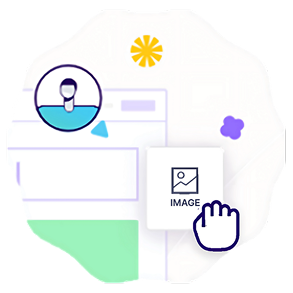
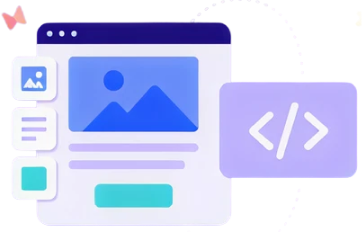
Remove MobileAppCard component and associated references from user dashboard and shimmer components; update campaign image.

diff --git a/src/client/pages/home/user-dashboard/index.tsx b/src/client/pages/home/user-dashboard/index.tsx
@@ -42,7 +42,6 @@ import { RecentAutomationsTable } from './recent-automations';
 import { QuickLinks } from './quick-links';
 import { RecentCampaignsTable } from './RecentCampaignsTable';
 import { UserDashboardShimmer } from './UserDashboardShimmer';
-import { MobileAppCard } from './mobile-app-card';
 import { useContactAnalytics } from '../use-analytics';
 // import { applyFilters } from '@wordpress/hooks'; // Uncomment when cart analytics is enabled
 
@@ -70,7 +69,6 @@ const UserDashboard: React.FC<UserDashboardProps> = ({ dashboardData }) => {
 
 	return (
 		<div className="flex flex-col gap-6">
-			<MobileAppCard />
 			<div className="grid grid-cols-1 gap-6 lg:grid-cols-3 lg:items-stretch">
 				<div className="h-full min-h-0 lg:col-span-2">
 					<DashboardCards data={dashboardData} />

diff --git a/src/client/pages/home/user-dashboard/UserDashboardShimmer.tsx b/src/client/pages/home/user-dashboard/UserDashboardShimmer.tsx
@@ -5,7 +5,6 @@ import { DashboardContentCard } from '@doublescale/components';
 import { Skeleton } from '@/components/ui/skeleton';
 import { __ } from '@wordpress/i18n';
 import { cn } from '@/lib/utils';
-import { MobileAppCard } from './mobile-app-card';
 
 export const UserDashboardShimmer: React.FC = () => {
 	return (
@@ -54,8 +53,6 @@ export const UserDashboardShimmer: React.FC = () => {
 					</DashboardContentCard>
 				</div>
 			</div>
-
-			<MobileAppCard />
 
 			{/* Recent Contacts & Contact Analytics Chart */}
 			<div className="grid grid-cols-1 gap-6 lg:grid-cols-2 lg:items-stretch">
